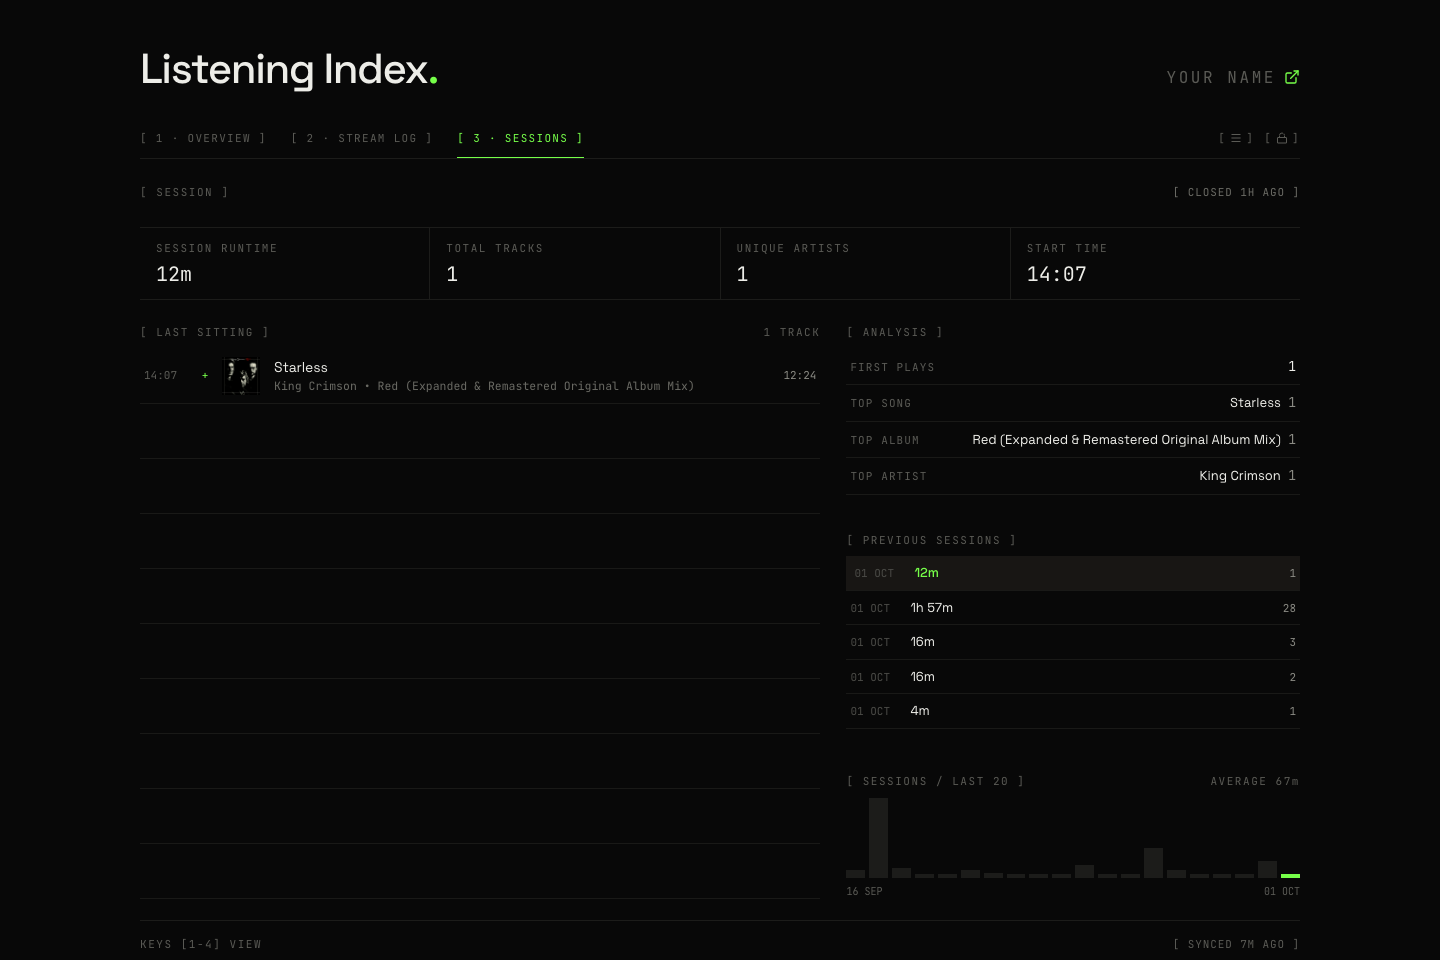
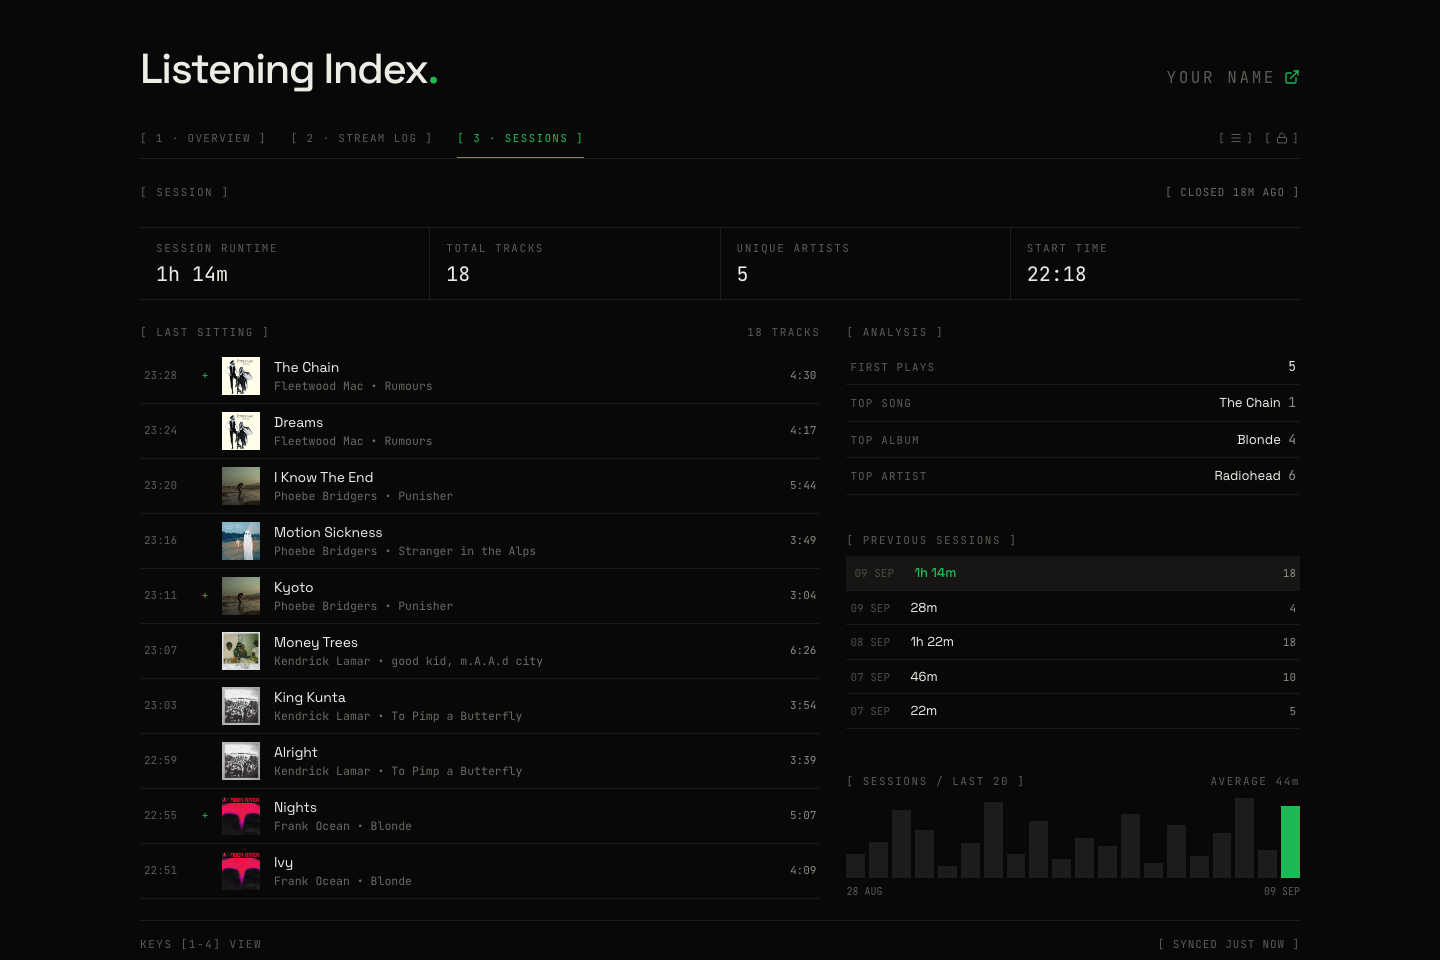
docs: regenerate all screenshots with mock data and add FORCE_MOCK_DATA flag

diff --git a/src/app/page.tsx b/src/app/page.tsx
@@ -15,7 +15,8 @@ export async function generateMetadata(): Promise<Metadata> {
 }
 
 export default async function Page() {
-  const isConfigured = isDbConfigured();
+  const isForceMock = process.env.FORCE_MOCK_DATA === "true";
+  const isConfigured = isDbConfigured() && !isForceMock;
 
   const [initialData, activeConfig] = await Promise.all([
     isConfigured
@@ -25,7 +26,18 @@ export default async function Page() {
           streamLog: MOCK_DATA.streamLog,
           session: MOCK_DATA.session,
         }),
-    getActiveSiteConfig(),
+    isForceMock
+      ? Promise.resolve({
+          title: "Listening Index",
+          ownerName: "YOUR NAME",
+          accentColor: "#1DB954",
+          siteUrl: "https://open.spotify.com/",
+          githubUrl: "https://github.com/Blairqiao/listening_index",
+          timezone: "America/Chicago",
+          spotifyClientId: "",
+          livePlayerLayout: "split" as const,
+        })
+      : getActiveSiteConfig(),
   ]);
 
   return (
@@ -34,7 +46,7 @@ export default async function Page() {
       initialStreamLog={initialData.streamLog}
       initialSession={initialData.session}
       initialConfig={activeConfig}
-      isDbConfigured={isConfigured}
+      isDbConfigured={isDbConfigured()}
     />
   );
 }

diff --git a/src/app/api/listening/stream-log/route.ts b/src/app/api/listening/stream-log/route.ts
@@ -18,8 +18,8 @@ export async function GET(request: NextRequest) {
     const prevDayGroup = searchParams.get("prevDayGroup") || undefined;
     const prevPlayedAt = searchParams.get("prevPlayedAt") || undefined;
 
-    // Zero-config preview fallback when DATABASE_URL is not configured or set to "todo"
-    if (!isDbConfigured()) {
+    // Zero-config preview fallback when DATABASE_URL is not configured or FORCE_MOCK_DATA is enabled
+    if (!isDbConfigured() || process.env.FORCE_MOCK_DATA === "true") {
       const mockData = getMockStreamLog(limit, cursor, cursorId, prevDayGroup, prevPlayedAt);
       return NextResponse.json(mockData, {
         status: 200,

diff --git a/src/app/api/listening/overview/route.ts b/src/app/api/listening/overview/route.ts
@@ -25,8 +25,8 @@ export async function GET(request: NextRequest) {
     const range = rangeParam as RangeKey;
     const tzParam = searchParams.get("tz") || searchParams.get("timezone") || request.headers.get("x-timezone") || undefined;
     
-    // Zero-config preview fallback when DATABASE_URL is not configured or set to "todo"
-    if (!isDbConfigured()) {
+    // Zero-config preview fallback when DATABASE_URL is not configured or FORCE_MOCK_DATA is enabled
+    if (!isDbConfigured() || process.env.FORCE_MOCK_DATA === "true") {
       return NextResponse.json(MOCK_DATA.overview[range], {
         status: 200,
         headers: {

diff --git a/src/app/api/listening/session/route.ts b/src/app/api/listening/session/route.ts
@@ -11,8 +11,8 @@ export async function GET(request: NextRequest) {
     const { searchParams } = new URL(request.url);
     const tzParam = searchParams.get("tz") || searchParams.get("timezone") || request.headers.get("x-timezone") || undefined;
 
-    // Zero-config preview fallback when DATABASE_URL is not configured or set to "todo"
-    if (!isDbConfigured()) {
+    // Zero-config preview fallback when DATABASE_URL is not configured or FORCE_MOCK_DATA is enabled
+    if (!isDbConfigured() || process.env.FORCE_MOCK_DATA === "true") {
       return NextResponse.json(MOCK_DATA.session, {
         status: 200,
         headers: {

diff --git a/src/lib/db/queries/track-stats.ts b/src/lib/db/queries/track-stats.ts
@@ -46,6 +46,24 @@ export async function getTrackTelemetryStats(params: {
     },
   };
 
+  if (process.env.FORCE_MOCK_DATA === "true") {
+    return {
+      track: {
+        id: cleanTrackId,
+        name: cleanTitle || "Weird Fishes / Arpeggi",
+        plays: 42,
+        rank: 14,
+        totalTracks: 1400,
+      },
+      artist: {
+        name: cleanArtist || "Radiohead",
+        plays: 280,
+        rank: 3,
+        totalArtists: 600,
+      },
+    };
+  }
+
   if (!isDbConfigured()) {
     return defaultEmptyStats;
   }

diff --git a/src/lib/mock-listening-data.ts b/src/lib/mock-listening-data.ts
@@ -956,6 +956,7 @@ export const MOCK_DATA: MockListeningData = {
         album: CATALOG.radiohead_weird_fishes.album,
         albumId: CATALOG.radiohead_weird_fishes.albumId,
         duration: CATALOG.radiohead_weird_fishes.duration,
+        durationMs: 318000,
         albumImageUrl: CATALOG.radiohead_weird_fishes.albumImageUrl,
         dayGroup: "09 SEP",
       },
